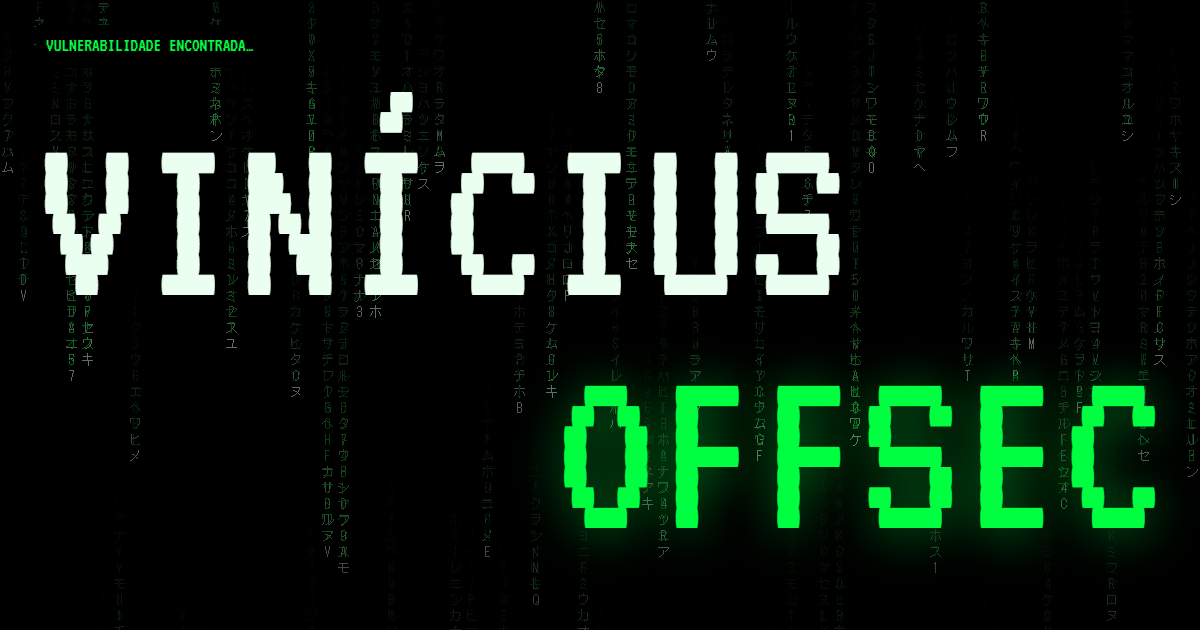
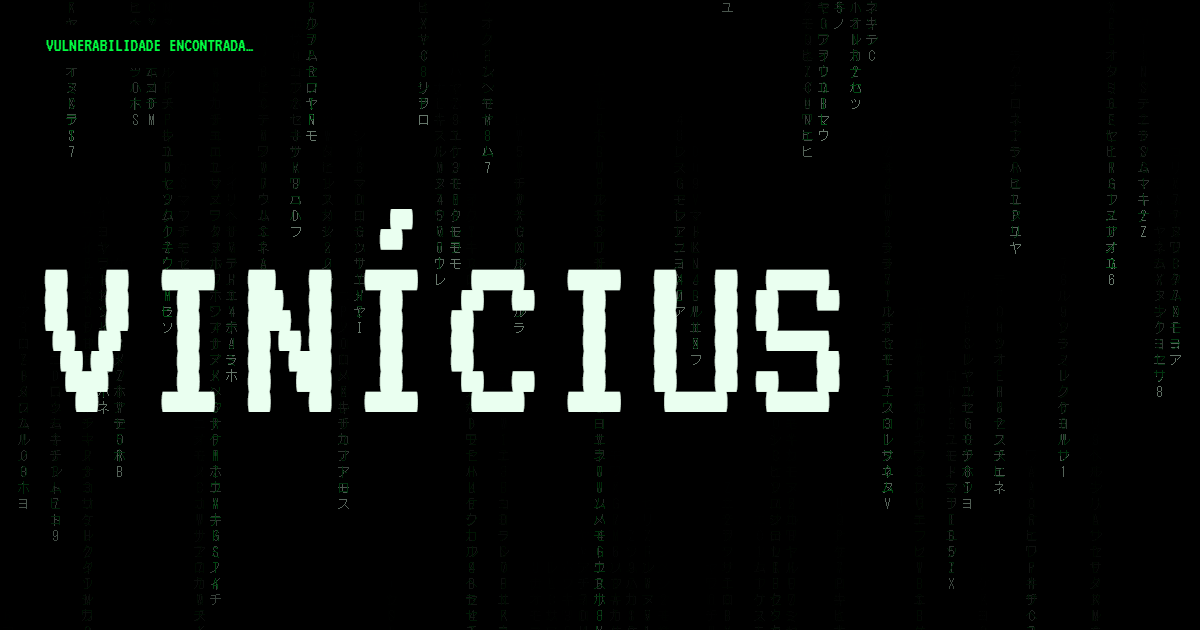
feat: remove o OFFSEC grande do titulo do topo
Deixa so VINICIUS no titulo principal. A marca OffSec continua no
rodape, no terminal e nos metadados.

- remove o span e o estilo do OFFSEC
- regenera a imagem de compartilhamento
- versiona style.css e script.js (?v=5)

diff --git a/index.html b/index.html
@@ -41,7 +41,7 @@
     rel="stylesheet"
     href="https://fonts.googleapis.com/css2?family=JetBrains+Mono:wght@400;500;700&family=VT323&display=swap"
   >
-  <link rel="stylesheet" href="style.css?v=4">
+  <link rel="stylesheet" href="style.css?v=5">
 
   <script type="application/ld+json">
     {
@@ -60,7 +60,7 @@
     }
   </script>
 
-  <script src="script.js?v=4" defer></script>
+  <script src="script.js?v=5" defer></script>
 </head>
 
 <body>
@@ -104,7 +104,6 @@
         <div class="title-wrap">
           <h1 class="glitch-title" id="hero-title" translate="no">
             <span class="name-white hologram-text" data-text="VINÍCIUS">VINÍCIUS</span>
-            <span class="name-green hologram-text" data-text="OFFSEC">OFFSEC</span>
           </h1>
           <canvas id="title-rain" aria-hidden="true"></canvas>
         </div>

diff --git a/style.css b/style.css
@@ -358,28 +358,17 @@ html[data-motion="off"] .icon-play {
 .glitch-title {
   display: grid;
   font-family: var(--font-display);
-  font-weight: 800;
   font-size: min(22.5cqi, 16rem);
   font-weight: 400;
   line-height: 0.92;
   letter-spacing: 0;
 }
 
-.name-white,
-.name-green {
+.name-white {
   position: relative;
   display: block;
   width: fit-content;
-}
-
-.name-white {
   color: var(--ink);
-}
-
-.name-green {
-  color: var(--phosphor);
-  justify-self: end;
-  text-shadow: 0 4px 48px rgba(0, 255, 65, 0.45);
 }
 
 .hologram-text::before,
